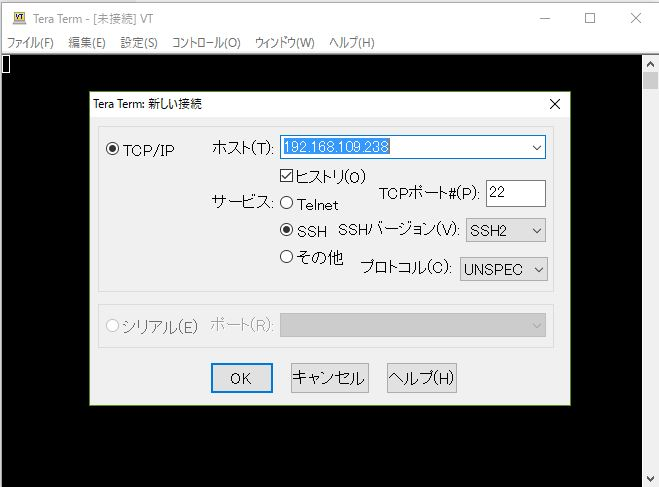
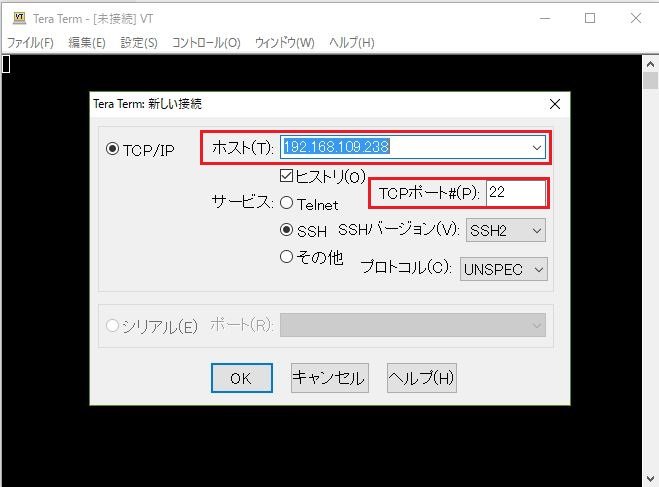
内容記述

Changed region(s): [[0.3035, 0.2464, 0.8498, 0.4312]]

diff --git a/steps/cenos7.md b/steps/cenos7.md
@@ -76,8 +76,8 @@
 1. デスクトップ上にショートカットアイコンが作成されているので起動させる。
 2. 以下のような画面が起動する。<br>
    <img src=image/SSH1.JPG><br>
-   * TCPポート:22・・・このポート番号で仮想環境に接続するために、VirtualBoxのインターフェイス上で設定をする。<br>
+3. TCPポート : 22・・・このポート番号で仮想環境に接続するために、VirtualBoxのインターフェイス上で設定をする。<br>
      1. VirtualBoxを起動して、使用する仮想マシンを選択して[設定]をクリック
         <img src=image/VirtualBox_IF.JPG>
-   *
+4. ホスト
 　　　　
